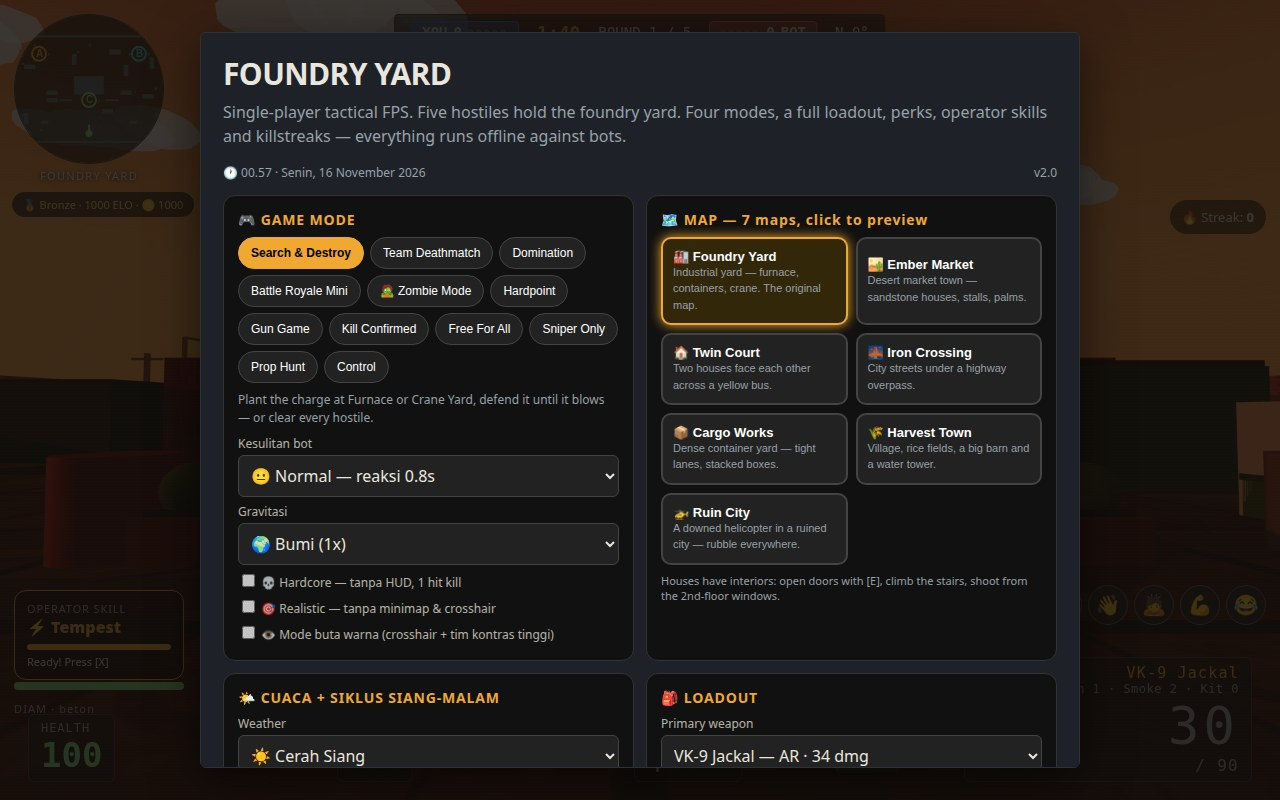
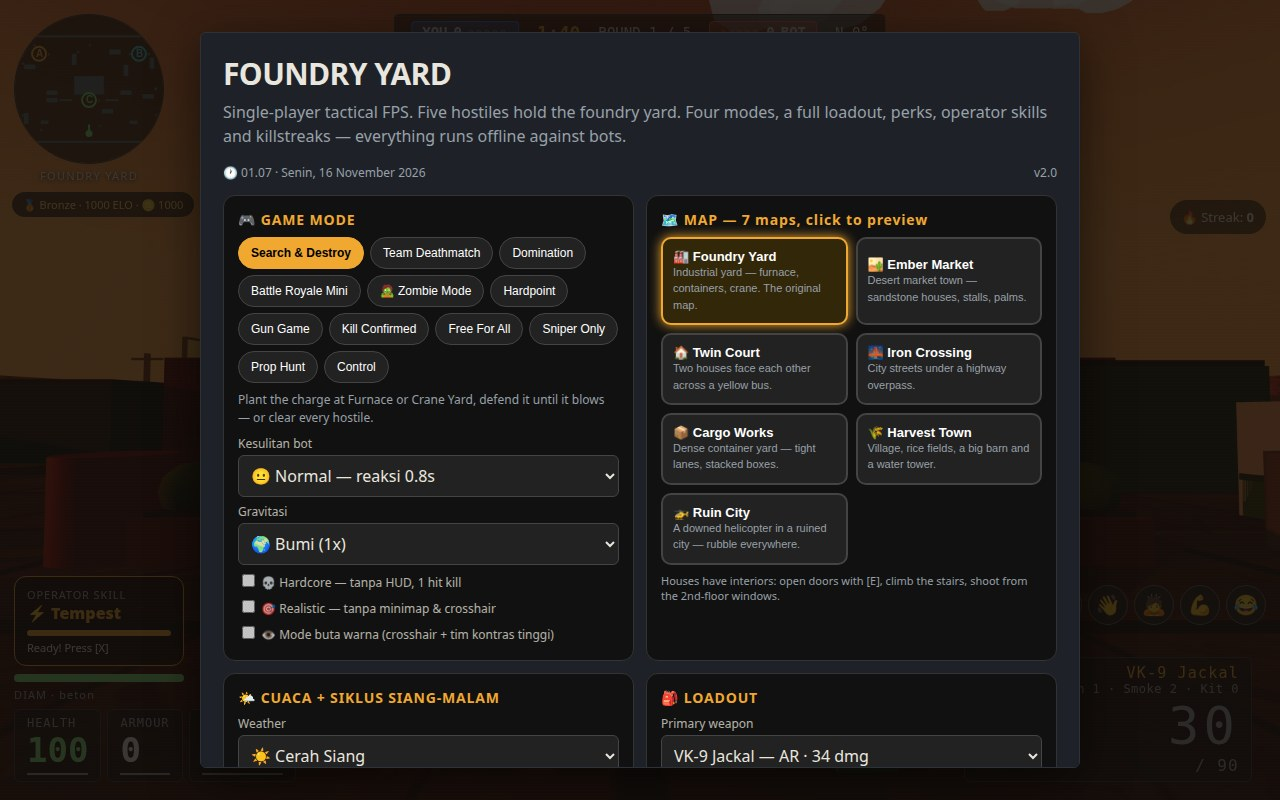
forge-fps HUD layout pass: HEALTH/ARMOUR/CASH now one tight cluster at bottom-left like the reference (flex-start + 6px gap, weapon stat pushed right via margin-left:auto; number underline like the reference); left column restacked to clear the cluster (move-status 98px, stamina 118px, operator-box 

diff --git a/game/style.css b/game/style.css
@@ -40,7 +40,7 @@
   #streak-info { background:rgba(0,0,0,.6); padding:8px 12px; border-radius:99px; font-size:13px; }
   .ks-btn { background:var(--amber); color:#000; border:none; padding:8px 12px; border-radius:99px; font-weight:800; cursor:pointer; font-size:12px; }
   .ks-btn:hover { background:var(--ink); }
-  #operator-box { position:fixed; left:14px; bottom:120px; background:rgba(0,0,0,.6); padding:10px 12px; border-radius:12px; border:1px solid var(--amber); min-width:170px; }
+  #operator-box { position:fixed; left:14px; bottom:134px; background:rgba(0,0,0,.6); padding:10px 12px; border-radius:12px; border:1px solid var(--amber); min-width:170px; }
   #operator-box .lbl { font-size:11px; opacity:.7; letter-spacing:.08em; }
   #operator-name { font-weight:900; color:var(--amber); }
   #operator-box .track { background:#333; height:6px; border-radius:99px; margin-top:6px; overflow:hidden; }
@@ -53,9 +53,10 @@
   #mythic-effect.fire { background:radial-gradient(circle, rgba(255,100,0,.4), transparent 70%); }
   #mythic-effect.void { background:radial-gradient(circle, rgba(138,0,255,.5), transparent 70%); }
   .mythic-pop { animation:emotePop 1s forwards; }
-  #bottombar { position:fixed; left:0; right:0; bottom:0; display:flex; justify-content:space-between; align-items:flex-end; padding:18px 28px; font-family:ui-monospace,Menlo,monospace; }
+  #bottombar { position:fixed; left:0; right:0; bottom:0; display:flex; justify-content:flex-start; gap:6px; align-items:flex-end; padding:18px 28px 18px 14px; font-family:ui-monospace,Menlo,monospace; }
+  #bottombar .stat:last-child { margin-left:auto; }
   .stat { background:rgba(10,12,10,.65); border:1px solid #2c323a; border-radius:6px; padding:6px 12px; }
-  .stat b { font-size:34px; font-weight:600; }
+  .stat b { font-size:34px; font-weight:600; display:block; border-bottom:2px solid rgba(255,255,255,.55); padding-bottom:3px; }
   .stat span { color:var(--muted); font-size:12px; display:block; letter-spacing:.08em; }
   #ammo-mag { font-size:52px; }
   #ammo-reserve { font-size:16px; color:var(--muted); }
@@ -288,9 +289,9 @@
 #fps-graph{position:fixed;left:14px;top:298px;display:flex;align-items:flex-end;gap:1px;height:20px;z-index:5}
 #fps-graph i{width:3px;display:block}
 #engine-stats{position:fixed;left:14px;top:324px;font-size:11px;font-family:ui-monospace,monospace;color:var(--muted);z-index:5}
-#stamina-bar{position:fixed;left:14px;bottom:110px;width:170px;height:8px;background:#222;border-radius:99px;overflow:hidden;z-index:5}
+#stamina-bar{position:fixed;left:14px;bottom:118px;width:170px;height:8px;background:#222;border-radius:99px;overflow:hidden;z-index:5}
 #stamina-fill{height:100%;background:#7ddc7d;width:100%}
-#move-status{position:fixed;left:14px;bottom:84px;font-size:11px;color:var(--muted);letter-spacing:.1em;z-index:5}
+#move-status{position:fixed;left:14px;bottom:98px;font-size:11px;color:var(--muted);letter-spacing:.1em;z-index:5}
 #surface-label{display:none}
 #weapon-fx{display:none}
 #reload-bar{position:fixed;left:50%;top:58%;transform:translateX(-50%);width:220px;text-align:center;z-index:6}
@@ -299,7 +300,7 @@
 #reload-fill{height:100%;background:var(--amber);width:0%}
 #reload-label{font-size:11px;color:var(--amber);margin-top:4px;letter-spacing:.1em}
 #hint-bar{position:fixed;left:50%;bottom:210px;transform:translateX(-50%);font-size:13px;color:#cfe6ff;text-shadow:0 1px 6px #000;opacity:0;transition:opacity .3s;z-index:5;pointer-events:none}
-#chat-log{position:fixed;left:14px;bottom:210px;font-size:12px;color:#cfe6ff;z-index:5;display:grid;gap:3px;max-width:320px}
+#chat-log{position:fixed;left:14px;bottom:224px;font-size:12px;color:#cfe6ff;z-index:5;display:grid;gap:3px;max-width:320px}
 #chat-log div{background:rgba(10,12,10,.6);padding:3px 8px;border-radius:4px}
 #chat-bubble{position:fixed;left:50%;top:52%;transform:translateX(-50%);background:rgba(255,255,255,.92);color:#111;border-radius:12px;padding:6px 12px;font-size:13px;z-index:6}
 #chat-bubble[hidden]{display:none}
